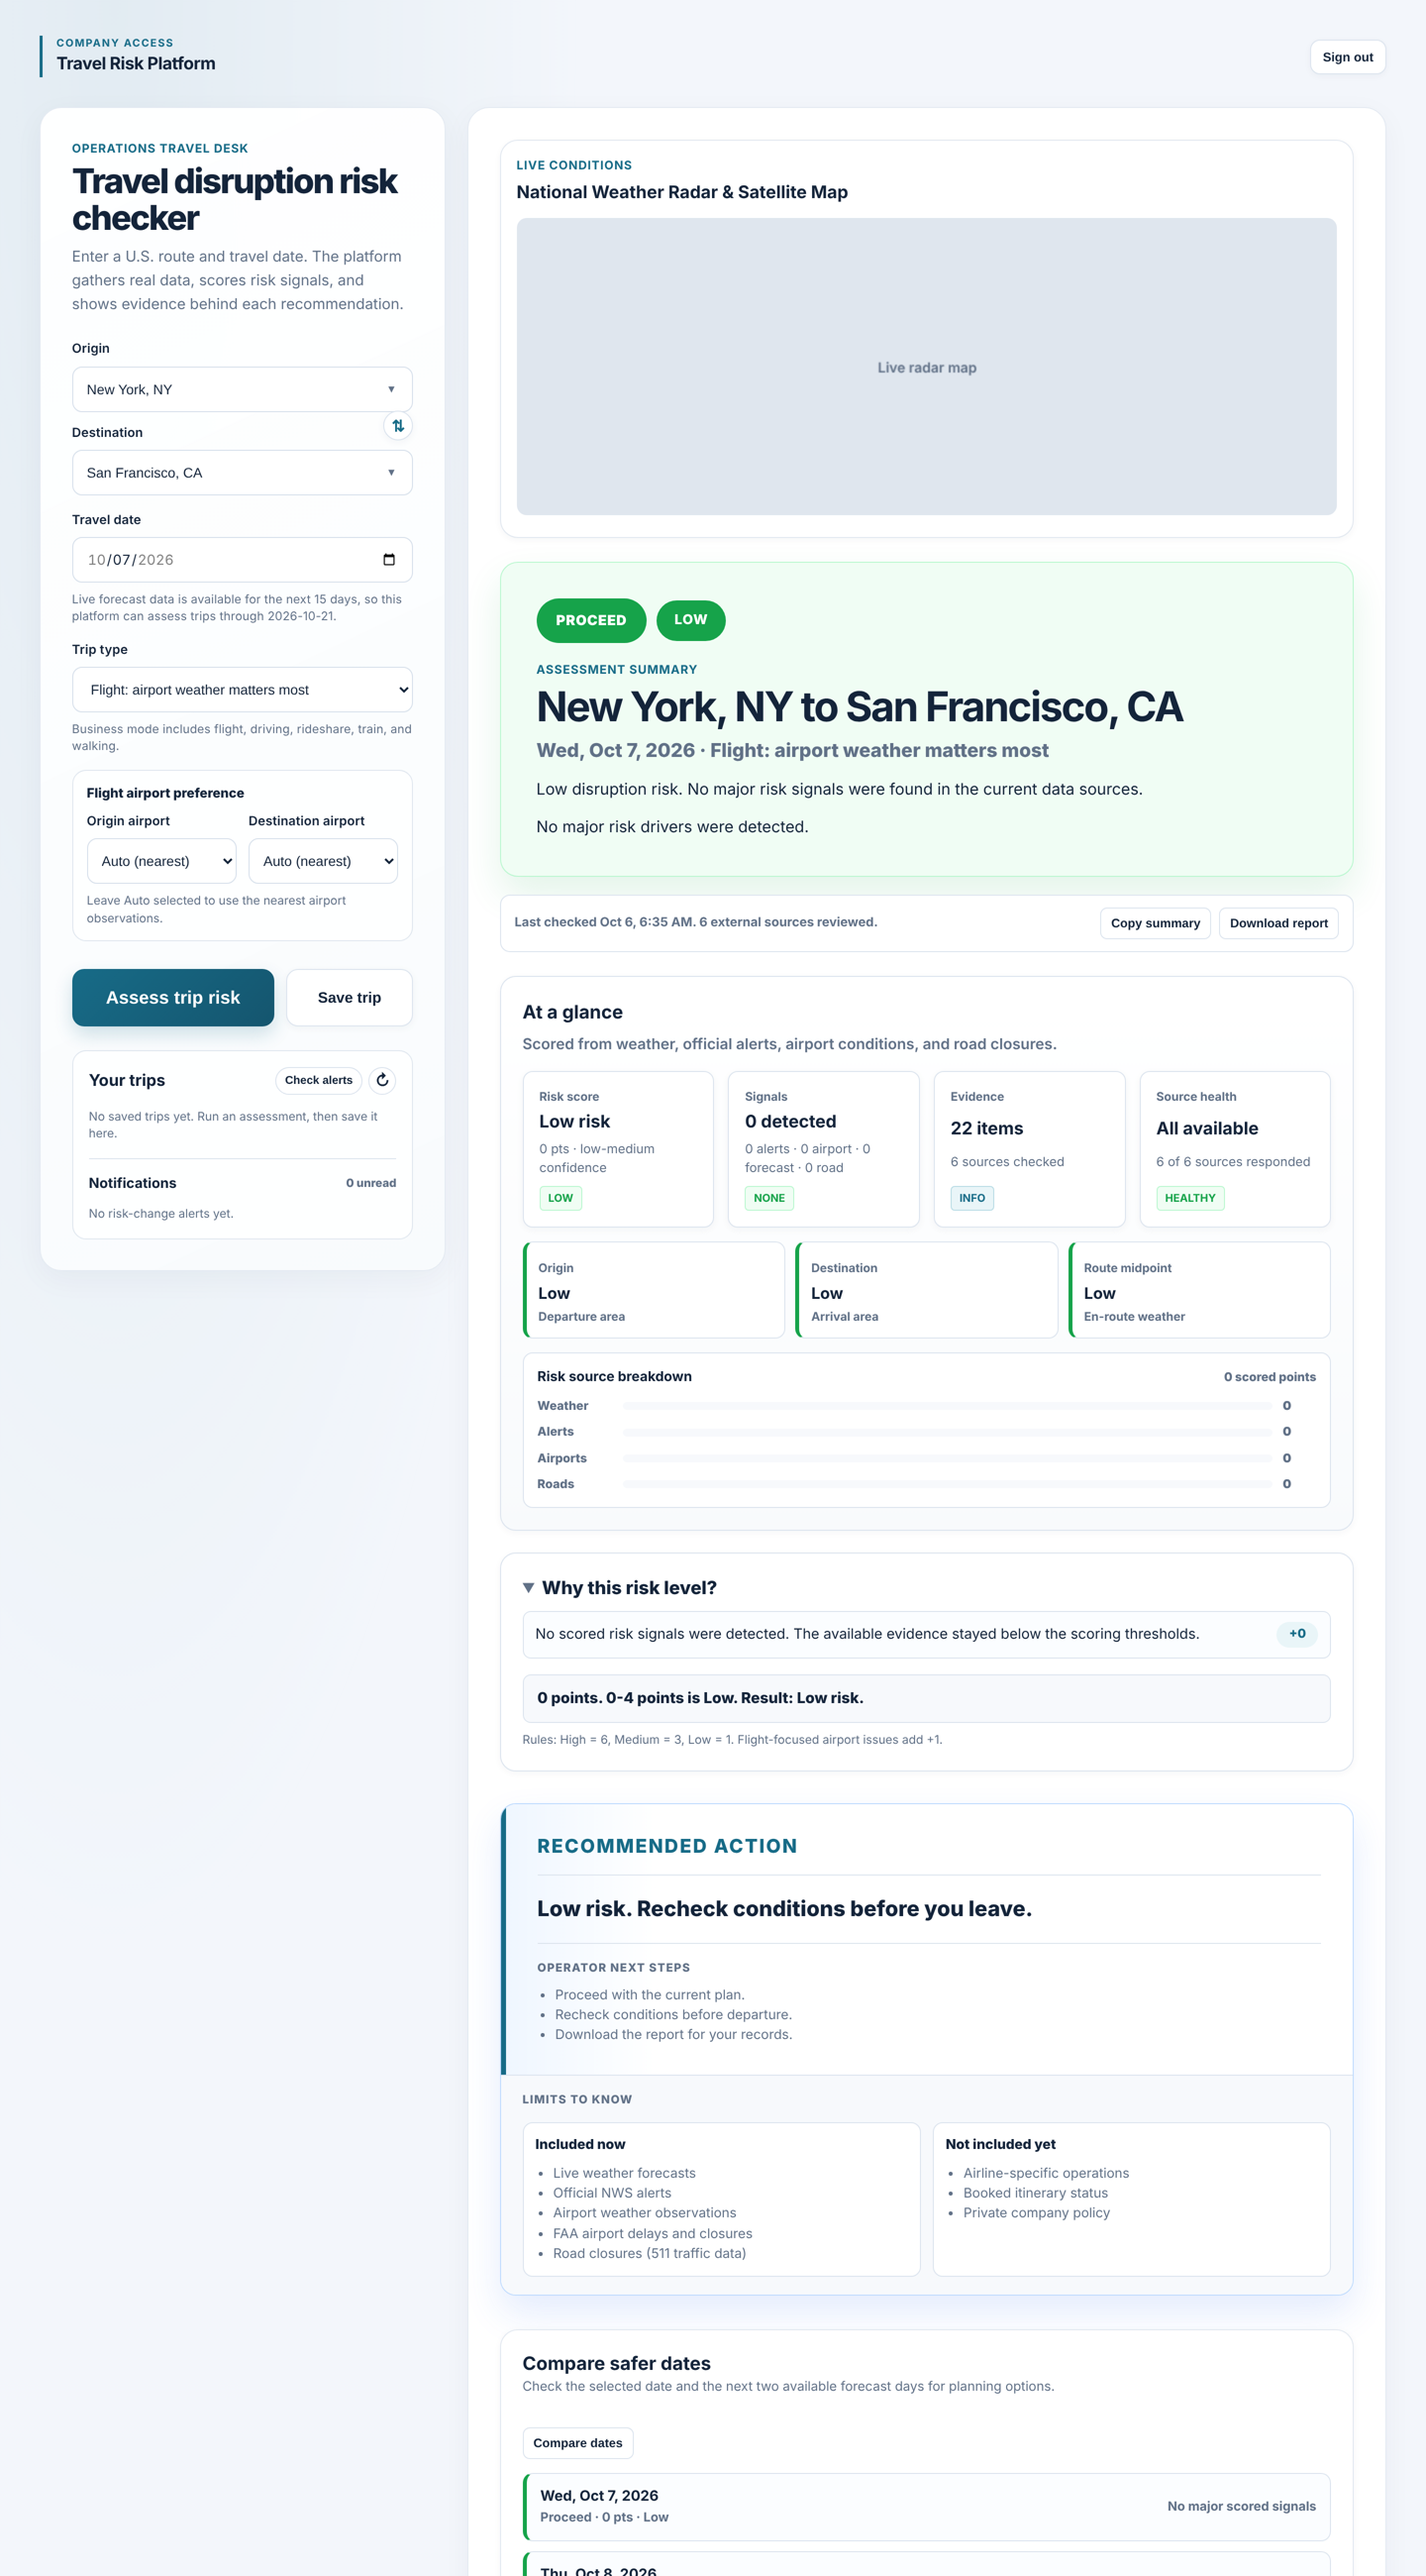
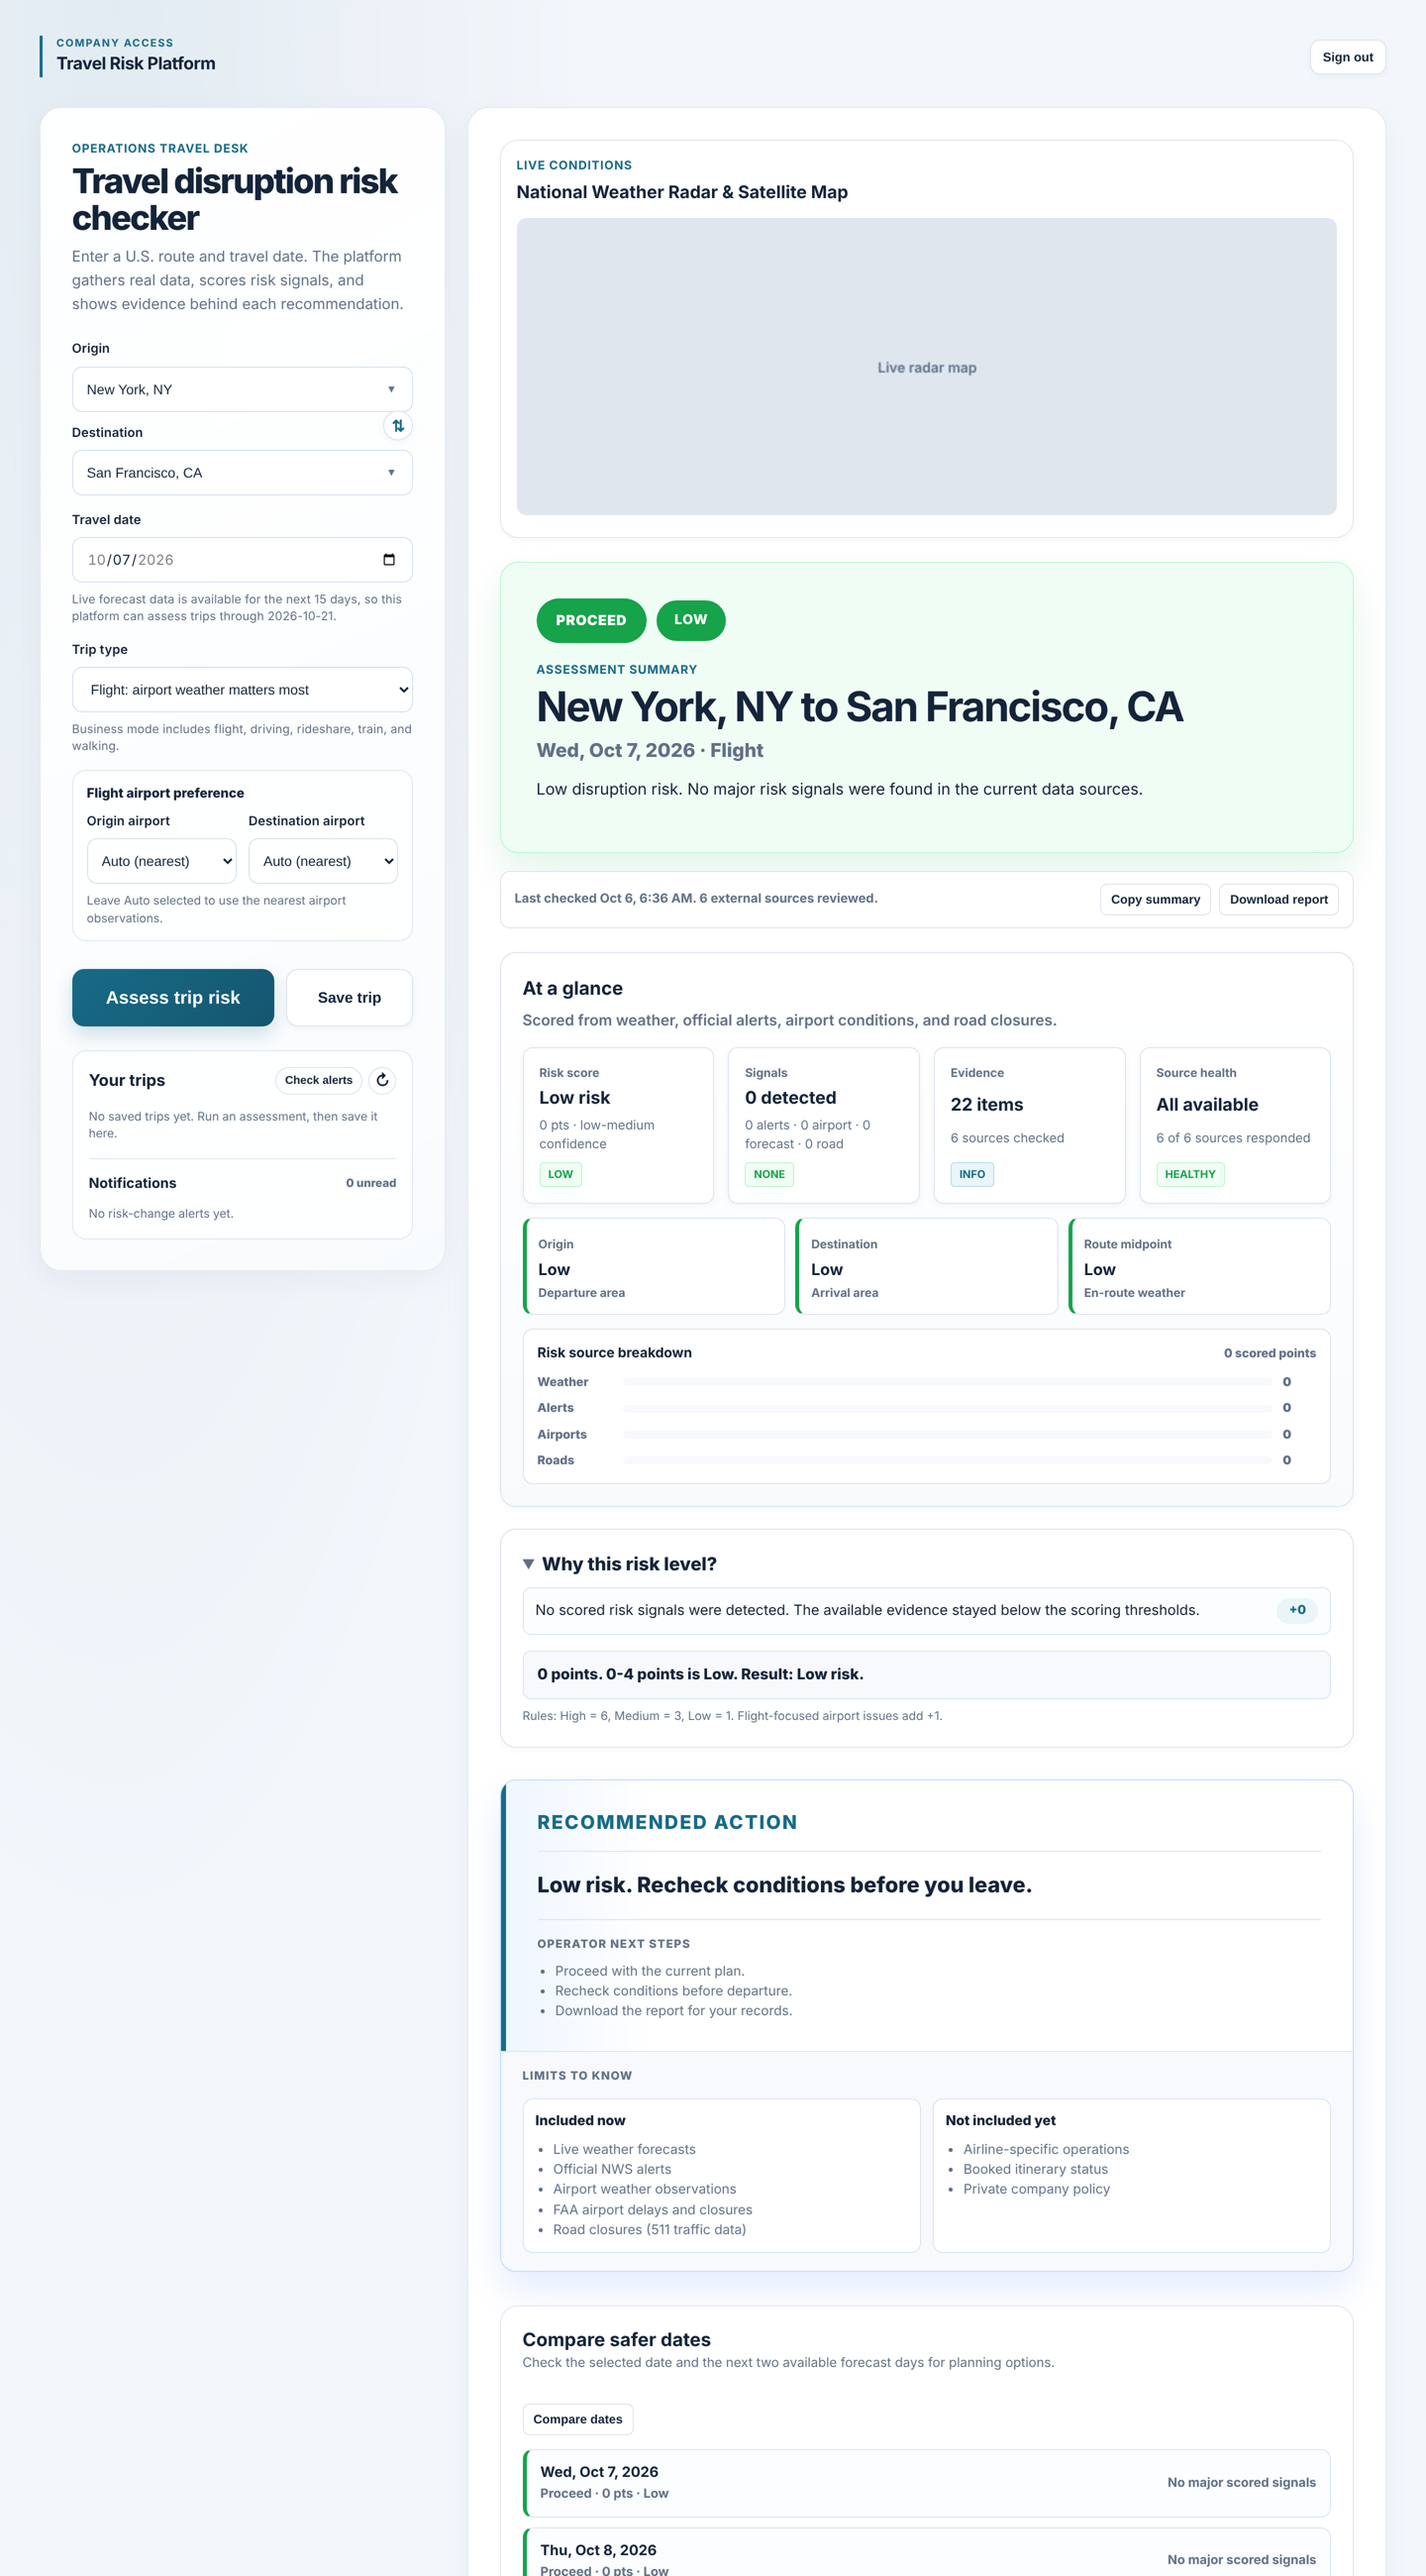
Drop the duplicate no-drivers line, short trip labels, route-fitted radar
The Windy embed supports one marker, so the midpoint dot is removed
rather than marking two cities; cross-country routes zoom in one step.

Claude-Session: https://claude.ai/code/session_01QtS3udLuvQTT5a9GifZoub

diff --git a/src/main/resources/static/results-rendering.js b/src/main/resources/static/results-rendering.js
@@ -71,10 +71,8 @@ function renderTopDrivers(signals) {
       .slice(0, 3);
 
   container.innerHTML = "";
-  if (!topSignals.length) {
-    container.textContent = "No major risk drivers were detected.";
-    return;
-  }
+  // The summary sentence already says when nothing drives the risk.
+  if (!topSignals.length) return;
 
   const label = document.createElement("span");
   label.textContent = "Main drivers";
@@ -320,9 +318,9 @@ function updateRadarMap(route) {
   const lat = ((origin.lat + destination.lat) / 2).toFixed(4);
   const lon = ((origin.lon + destination.lon) / 2).toFixed(4);
   const span = Math.max(Math.abs(origin.lat - destination.lat), Math.abs(origin.lon - destination.lon));
-  const zoom = span > 20 ? 3 : span > 8 ? 5 : span > 3 ? 6 : 7;
+  const zoom = span > 20 ? 4 : span > 8 ? 5 : span > 3 ? 6 : 7;
 
-  iframe.src = `https://embed.windy.com/embed2.html?lat=${lat}&lon=${lon}&zoom=${zoom}&level=surface&overlay=radar&menu=&message=true&marker=true&calendar=now&pressure=&type=map&location=coordinates&detail=&metricWind=default&metricTemp=default&radarRange=-1`;
+  iframe.src = `https://embed.windy.com/embed2.html?lat=${lat}&lon=${lon}&zoom=${zoom}&level=surface&overlay=radar&menu=&message=true&marker=&calendar=now&pressure=&type=map&location=coordinates&detail=&metricWind=default&metricTemp=default&radarRange=-1`;
 }
 
 function renderSources(data) {
@@ -809,8 +807,8 @@ function labelize(key) {
 
 function tripTypeLabel(mode) {
   return {
-    flight: "Flight: airport weather matters most",
-    drive: "Driving: route weather matters most",
-    general: "Business: mixed travel modes"
+    flight: "Flight",
+    drive: "Driving",
+    general: "Business travel"
   }[mode] || "Travel assessment";
 }
